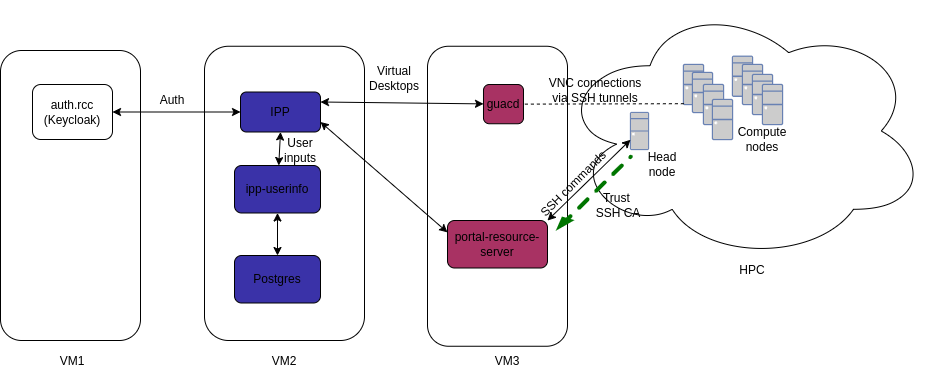
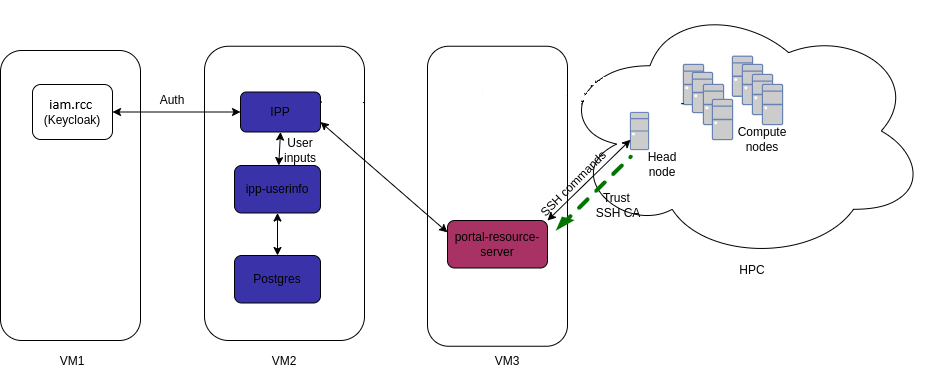
Bunya updates

Changed region(s): [[0.3438, 0.1751, 0.7188, 0.3501], [0.0312, 0.2626, 0.0938, 0.2918]]

diff --git a/access.md b/access.md
@@ -1,4 +1,4 @@
-The Image Processing Portal (IPP) is designed around the needs of optical microscopists to manage, convert, pre-process and deconvolve datasets on the Wiener High Performance Cluster in an easy to use way.
+The Image Processing Portal (IPP) is designed around the needs of optical microscopists to manage, convert, pre-process and deconvolve datasets on the Bunya High Performance Cluster in an easy to use way.
 
 The IPP uses a number of different UQ systems which you may not have access to by default. The following steps and links outline the required process to getting a full functional account on all required systems.
 
@@ -9,30 +9,28 @@ The IPP uses a number of different UQ systems which you may not have access to b
 1. Have a UQ staff account with DUO MFA activated.
 2. Create (or have) a [UQ RDM](https://research.uq.edu.au/rmbt/uqrdm) Q collection/s to store your input and output datasets - [Link](https://rdm.uq.edu.au/)
 
-    *When you create the collection/s, ensure you tick the "The project data needs to be mounted on UQ HPC facilities" tick box in the Data storage options section at the bottom of the webpage. This will create a "Q" collection that is mountable on the Wiener HPC.* 
+    *When you create the collection/s, ensure you tick the "The project data needs to be mounted on UQ HPC facilities" tick box in the Data storage options section at the bottom of the webpage. This will create a "Q" collection that is mountable on the Bunya HPC.* 
 
 3. Once you have created your RDM Q collection and have received an email from ITS/RDM stating that your collection is ready, you will need to send an email to the appropriate IT administrators to: 
 
-      a. Gain access to Wiener HPC 
-
-      b. Gain access to CVL@Wiener
+      a. Gain access to Bunya HPC. To apply for access to Bunya, [click here](https://rcc.uq.edu.au/systems/high-performance-computing/bunya) for instructions. 
 
       c. Mount your RDM collections at QBI 
       
-      *A template for this email is available here - [Link](mailto:microscopes@imb.uq.edu.au?&subject=IPP%20%2D%20Wiener%20HPC%20and%20CVL%20access%20request&body=To%20whom%20it%20may%20concern,%0A%0ACould%20you%20please%20provide%20me%20with%20access%20to%20Wiener%20HPC%20and%20CVL%20to%20utilise%20the%20Image%20Processing%20Portal%2E%0A%0AMy%20UQ%20username%20is%3A%0A%0AMy%20Organisational%20Unit%20is%3A%0A%0AI%20will%20also%20require%20the%20following%20RDM%20collection%28s%29%20%20to%20be%20mounted%20at%20Wiener/QBI%3A%0A%2D%0A%0A%0ABest%20regards,%0A%0A%0A%0AIPP_HomePage_Generated_Email)*
+      *A template for this email is available here - [Link](mailto:microscopes@imb.uq.edu.au?&subject=IPP%20%2D%20Bunya%20HPC%20and%20request&body=To%20whom%20it%20may%20concern,%0A%0ACould%20you%20please%20provide%20me%20with%20access%20to%20Bunya%20HPC%20to%20utilise%20the%20Image%20Processing%20Portal%2E%0A%0AMy%20UQ%20username%20is%3A%0A%0AMy%20Organisational%20Unit%20is%3A%0A%0AI%20will%20also%20require%20the%20following%20RDM%20collection%28s%29%20%20to%20be%20mounted%20at%20Bunya/QRISdata%3A%0A%2D%0A%0A%0ABest%20regards,%0A%0A%0A%0AIPP_HomePage_Generated_Email)*
 
 ### Preferable: 
 
  4. Ideally, you should also mount the collection/s in your local RDM cache for faster data access via your local PCs. 
 
-       a. Institute for Molecular Bioscience – [Link](mailto:helpdesk@imb.uq.edu.au?cc=microscopes@imb.uq.edu.au,h.nguyen30@uq.edu.au&subject=IPP%20%2D%20IMB%20RDM%20cache%20mount%20request&body=To%20whom%20it%20may%20concern,%0A%0ACould%20you%20please%20mount%20the%20following%20RDM%20collection%28s%29%20at%20IMB%3A%0A%2D%0A%0A%0ABest%20regards,%0A%0A%0A%0AIPP_HomePage_Generated_Email) 
+       a. Institute for Molecular Bioscience – [Link](mailto:helpdesk@imb.uq.edu.au?cc=microscopes@imb.uq.edu.au&subject=IPP%20%2D%20IMB%20RDM%20cache%20mount%20request&body=To%20whom%20it%20may%20concern,%0A%0ACould%20you%20please%20mount%20the%20following%20RDM%20collection%28s%29%20at%20IMB%3A%0A%2D%0A%0A%0ABest%20regards,%0A%0A%0A%0AIPP_HomePage_Generated_Email) 
 
-       b. Australian Institute for Bioengineering and Nanotechnology - [Link](mailto:helpdesk@aibn.uq.edu.au?cc=microscopes@imb.uq.edu.au,h.nguyen30@uq.edu.au&subject=IPP%20%2D%20AIBN%20RDM%20cache%20mount%20request&body=To%20whom%20it%20may%20concern,%0A%0ACould%20you%20please%20mount%20the%20following%20RDM%20collection%28s%29%20at%20AIBN%3A%0A%2D%0A%0A%0ABest%20regards,%0A%0A%0A%0AIPP_HomePage_Generated_Email)
+       b. Australian Institute for Bioengineering and Nanotechnology - [Link](mailto:helpdesk@aibn.uq.edu.au?cc=microscopes@imb.uq.edu.au&subject=IPP%20%2D%20AIBN%20RDM%20cache%20mount%20request&body=To%20whom%20it%20may%20concern,%0A%0ACould%20you%20please%20mount%20the%20following%20RDM%20collection%28s%29%20at%20AIBN%3A%0A%2D%0A%0A%0ABest%20regards,%0A%0A%0A%0AIPP_HomePage_Generated_Email)
 
      *When requesting your RDM to be mounted on an institutional cache please provide the Shortcode + the "Q" code for example: MicroRDM-Q1234*
 
 ### Policies
 The IPP uses a number of different UQ systems which have their own sets of rules/policies which you must agree to and follow.
-- Wiener HPC User Guide [Link](http://www2.rcc.uq.edu.au/hpc/guides/index.html?secure/Wiener_userguide.html)
+- Bunya HPC User Guide [Link](https://github.com/UQ-RCC/hpc-docs/blob/main/guides/Bunya-User-Guide.md)
 - Research Data Manager Guide [Link](https://guides.library.uq.edu.au/for-researchers/uq-research-data-manager)
-- Characterisation Virtual Laboratory Guide [Link](https://characterisation-virtual-laboratory.github.io/CVL_Community/CVLWiener/)
+- Bunya onDemand Guide [Link](https://github.com/UQ-RCC/hpc-docs/blob/main/guides/OnDemand-Guide.md)

diff --git a/installation.md b/installation.md
@@ -43,90 +43,5 @@ Assuming server_ca.pub is copied to /etc/ssh/server_ca.pub, the following should
 
 Replacing sysadmin to any group for system admins. This basically only allows server_ca mechanism to work with non admin accounts.
 
-### Config machine running portal-resource-server
-* Download latest release of [portal-resource-server releases](https://github.com/UQ-RCC/portal-resource-server/releases), unzip it (assuming to /opt/portal-resource-server)
-* Copy and modify [API definition json file](https://github.com/UQ-RCC/ipp-scripts/blob/main/wiener_prod.json) to /var/lib/portal-resource-server/api.json. Make sure the json file is modified to reflect correct paths and scheduler in HPC. 
-* Edit config file in /opt/portal-resource-server/etc/portal-resource-server/application.yml
-
-> 
-    server:
-        port: 9005
-        use-forward-headers: true
-        servlet:
-            contextPath: /resourceserver
-
-    resource-server:
-        tmpdir: /tmp
-        jsonfile: /var/lib/portal-resource-server/api.json
-        remote-host: __HEADNODE__
-        cert:
-            key-algorithm: RSA
-            key-bits: 4096
-            rng-algorithm: NativePRNGNonBlocking
-            validity: 300 # 5 minutes
-            # Only the private key is needed
-            ca_private: __server_ca_location__
-            ca_passphrase: __passphrase__
-
-    spring:
-        security:
-            oauth2:
-            resourceserver:
-                jwt:
-                jwk-set-uri: https://__keycloak_url__/auth/realms/__realm__/protocol/openid-connect/certs
-                issuer-uri: https://__keycloak_url__/auth/realms/__realm__
-                client-id: __client_id__
-                client-secret: __client_secret__
-                audience-id: __js_client_name___
-
-
-* Add systemd service config file
-> 
-    [Unit]
-    Description=Portal Resource Server
-    After=network.target
-
-
-    [Service]
-    Type=simple
-    User=root
-    Group=root
-    RuntimeDirectory=portal-resource-server-dev
-    RuntimeDirectoryMode=770
-    PrivateTmp=true
-    WorkingDirectory=/var/lib/portal-resource-server
-    ExecStart=/opt/portal-resource-server/bin/portal-resource-server \
-        --spring.config.location=/opt/portal-resource-server/etc/portal-resource-server/application.yml \
-        --logging.config=/opt/portal-resource-server/etc/portal-resource-server/logback-spring.xml    
-    SuccessExitStatus=143
-
-    [Install]
-    WantedBy=multi-user.target
-
-* Config nginx
-Make sure the portal-resource-server is added to nginx (inside nginx conf ssl definition for instance)
-
-> 
-    location /resourceserver {
-                add_header                                              'Access-Control-Allow-Methods'          'POST, PUT, GET, OPTIONS, DELETE' always;
-                add_header                                              'Access-Control-Allow-Headers'          'Authorization, Content-Type' always;
-                add_header                                              'Access-Control-Allow-Credentials'      'true' always;
-                if ($request_method = 'OPTIONS') {
-                        add_header                                      'Access-Control-Allow-Origin'           '*';
-                        add_header                                      'Access-Control-Allow-Methods'          'POST, PUT, GET, OPTIONS, DELETE';
-                        add_header                                      'Access-Control-Allow-Headers'          'Authorization, Content-Type';
-                        add_header                                      'Access-Control-Allow-Credentials'      'true';
-                        add_header                                      'Access-Control-Max-Age'                '3600';
-                        add_header                                      'Content-Type'                          'text/plain charset=UTF-8';
-                        add_header                                      'Content-Length'                                        0;
-                        return 204;
-                }
-
-                proxy_read_timeout  600s;
-                proxy_pass                      http://localhost:9005/resourceserver;
-                proxy_set_header                Host $host;
-                proxy_set_header                X-Real-IP $remote_addr;
-                proxy_set_header                X-Forwarded-Host $http_host;
-                proxy_set_header                X-Forwarded-Server $http_host;
-                proxy_set_header                X-Forwarded-For $proxy_add_x_forwarded_for;
-        }
+### Deploy the portal-resource-server
+* Follow the instructions given [here](https://github.com/UQ-RCC/rcc-portals/tree/main/charts/resourceserver) to deploy resource server using helm charts. 

diff --git a/guide.md b/guide.md
@@ -69,15 +69,17 @@ There are 3 Directory Groups:
  </ul>
 <br>
 
-### Visualising your image files on CVL
-The Characterisation Virtual Laboratory (CVL) platform is an Linux based virtual dekstop that can be run within your browser, populated with open-source software tools such as Fiji and Napari. For more information on how to access CVL please see the following [Guide](https://characterisation-virtual-laboratory.github.io/CVL_Community/CVLWiener/)
+### Visualising your image files on onBunya
 
-Selecting the file from within the Files Manger page will allow you to then click the Launch Virtual Desktop button in the top right toolbar. Here you can spin up a CVL instance and launch the selected image file into either Napari or Fiji. Note you can edit the resources allocated to your CVL session upto a limit of (1xNode, 4xProcessors(cores), 32GB Memory (per processor)).
+OnBunya is a web portal that provides users to access Bunya virtual dekstop. It can be accessible by all Bunya users, providing researchers with an easily accessible graphical user interface (GUI) and remote web access to the powerful hardware Bunya has to offer. 
+For more information on how to access onBunya please see the following [Guide](https://github.com/UQ-RCC/hpc-docs/blob/main/guides/OnDemand-Guide.md)
+
+Selecting a file from the Files Manager page enables you to click the Launch Virtual Desktop button in the top-right toolbar. From there, you can spin up an onBunya instance and open the selected image file in Fiji, Napari, or CellProfiler. You can also choose a desktop configuration with the required CPU and memory resources, and specify how many hours the session should run.
 
 ## Desktops Manager
-The desktops manager page lets you create a CVL desktop environment, or if you already have one available you can click Show Desktop to create a new tab with the CVL session running. You can also kill a desktop session by clicking the trash can icon.<br>
- <img src="images/Desktops Manager_CreateDesktop.png" alt="Overview of Desktops Manager Page - No Currently Running Dekstop" width="900"/><br>
- <img src="images/Desktops Manager_DesktopRunning.png" alt="Overview of Desktops Manager Page - Currently Running Dekstop" width="900"/><br>
+The Desktops Manager page allows you to select an onBunya desktop, after which you'll be directed to a form where you can specify the resources required to launch the desktop<br>
+ <img src="images/Desktop Manager_Launch_Desktop" alt="Overview of Desktops Manager Page - No Currently Running Dekstop" width="900"/><br>
+ <img src="images/onBunya_desktop_configuration_form" alt="Desktop resource configuration page" width="900"/><br>
 
 
 ## Converter
@@ -214,11 +216,12 @@ The macros page lets you execute ijm macros against your image file(s) using the
     - __#@ String (choices={"Option 1", "Option 2"}, style="radioButtonHorizontal") options__
 5. You can add default values to the script paramaters as follows.
     - __#@ String (value="value1") someValue__
+
 ## Jobs Management
 When a job is submitted to the HPC it first enters the Queue which is managed by a schedular called SLURM. SLURM looks for where it can slot your job into the HPC based on your requested resources. Sometimes your job may run instantly (if you only request a small allocation of resources) however sometimes it may hit the queue and need to wait until enough requested resources are freed up and reserved for your job. The Jobs page lets you see all jobs that you have requested that are currently in the queue or running. The page refreshes every few seconds, or you can manually refresh by clicking the blue icon. Jobs can also be cancelled by selecting the appropriate checkbox that corresponds with the job being cancelled and by clicking the orange button. <br>
 <img src="images/Jobs_running.png" alt="Overview of Jobs page" width="900"/><br>
 
-Note that any job running on Wiener against your UQ username will be visible in this list. Jobs submitted via the Image Processing Portal will be prefixed with ipp_ . Characterisation Virtual Laboratories (Linux virtual desktops) will have the *Jobname* cvl and are currently limited to 1 cvl session per user.
+Note that any job running on Bunya against your UQ username will be visible in this list. Jobs submitted via the Image Processing Portal will be prefixed with ipp_ . 
 
 Common Status Codes given by SLURM on the Jobs page will include:
 | **Status**   	| **Explanation**   	|

diff --git a/README.md b/README.md
@@ -11,13 +11,13 @@ The IPP makes using HPC resources possible by providing biologists with interact
 ### Features
 
 
-The IPP utilises the Wiener GPU-accelerated HPC system to make use of massively parallel image processing jobs. The portal is backed by the MeDiCI network infrastructure and can access image data-sets mounted on the Research Data Manager (RDM) GPFS based file system.
+The IPP utilises the Bunya GPU-accelerated HPC system to make use of massively parallel image processing jobs. The portal is backed by the MeDiCI network infrastructure and can access image data-sets mounted on the Research Data Manager (RDM) GPFS based file system.
 
 Currently the IPP has the following pipelines enabled:
 
 * **File Management:** The ability to explore, copy/paste, and delete files interactively from within the browser, allowing files to be moved between collections, or organised on native HPC infrastructure, without having to bring the files locally to the users device.
 * **Desktops Manager:** The ability to spin up one of 3 different flavours of Linux virtual desktop (running CVL) to launch files into from the file browser.
-* **Converter:** File conversion between the .ims (Imaris/Fusion) filetype and .tiff individual Z-stacks for accelerated ingest into Wiener. Coming soon .sld (Slidebook) will be implemented as a parallel processed for SButility (also developed by RCC).
+* **Converter:** File conversion between the .ims (Imaris/Fusion) filetype and .tiff individual Z-stacks for accelerated ingest into Bunya. Coming soon .sld (Slidebook) will be implemented as a parallel processed for SButility (also developed by RCC).
 * **PreProcessing:** Batch processing and deskewing of Lattice Light-Sheet data-sets, as well as PSF distillation (bead centring & averaging).
 * **Macros:** Batch processing and execution of pre-provided or user-uploadable image processing macros.
 * **Deconvolution:** Currently utilising Microvolution Deconvolution (with Light-Sheet, Widefield, Confocal and 2-Photon modalities supported) for either individual files or directories of files. This mode also supports Generating a PSF or suppling your own measured PSF files. Deconvolution is currently supported on up to 10 nodes simultaneously utilising up to 40 GPUs.

diff --git a/technicalguide.md b/technicalguide.md
@@ -2,8 +2,8 @@
 ![image](images/ipp.png)
 
 The Image Processing Portal (IPP) consists of 4 components:
-* auth server which is a Keycloak server. This Keycloak instance relies on UQSSO for authentication, and only lets a certain users from a branch in UQAD to login. The ipp uses keycloak-js for authentication, and to acquire an access token used to make request to ipp-userinfo and the portal-resource-server. 
+* auth server which is a Keycloak server. This Keycloak instance relies on AAF (Australian Access Federation) for authentication. The ipp uses keycloak-js for authentication, and to acquire an access token used to make request to ipp-userinfo and the portal-resource-server. 
 * [ipp-userinfo](https://github.com/UQ-RCC/ipp-userinfo): this provides a REST API (written in Python [FastAPI](https://fastapi.tiangolo.com/)) for storing user inputs and user jobs. 
-* [portal-resourcer-server](https://github.com/UQ-RCC/portal-resource-server): this Springboot application provides REST API to invoke commands specified in a [json file](https://github.com/UQ-RCC/ipp-scripts/blob/main/wiener_prod.json). Each command triggers a SSH command to be executed in the HPC. The result of the SSH command is returned and displayed to users in IPP. 
+* [portal-resourcer-server](https://github.com/UQ-RCC/rcc-portals/tree/main/charts/resourceserver): this Springboot application provides REST API to invoke commands specified in a [json file](https://github.com/UQ-RCC/ipp-scripts/blob/main/resourceserver_prod.json). Each command triggers a SSH command to be executed in the HPC. The result of the SSH command is returned and displayed to users in IPP. 
 * [ipp](https://github.com/UQ-RCC/ipp): this vuejs SPA is the main interface for users. The features are already detailed in the user guide.
-* [guacd](https://guacamole.apache.org): Guacamole daemon to serve virtual desktops running in the HPC.
+
